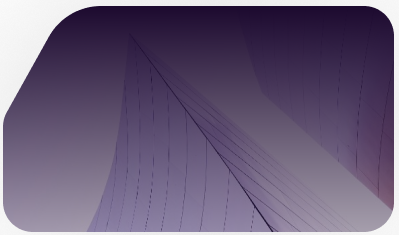
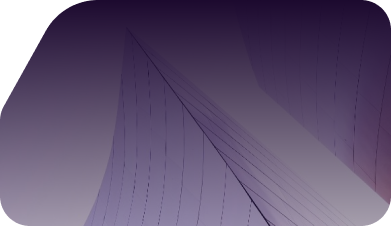
commit message

diff --git a/src/html/index.html b/src/html/index.html
@@ -138,6 +138,8 @@
                                     ما</a></li>
                         </ul>
                         <div class="hidden dropdown md:block absolute rounded-3xl bg-white shadow-2 p-3 z-40 top-[6px] inset-x-0 w-full">
+                            <!-- shape -->
+                            <img alt="bg" src="../img/Pattern (5).png" class="absolute left-0 top-0">
                             <!-- list1 -->
                             <div class="list1 grid grid-cols-3 py-2 text-center text-secondary font-extrabold font-rokh text-sm">
                                 <a data-id="1" class="cursor-pointer relative">
@@ -166,7 +168,10 @@
                                 </a>
                             </div>
                             <!-- list2 -->
-                            <div class="bg-purple list2 rounded-3xl p-6 mt-2 text-sm text-white font-light">
+                            <div class="bg-purple list2 relative overflow-hidden rounded-3xl p-6 mt-2 text-sm text-white font-light">
+                                <!-- shape -->
+                                <img alt="bg" src="../img/Pattern (5).png" class="absolute [transform:rotateY(180deg)] right-0 top-0">
+                                <!--  -->
                                 <ul data-id="1" class="relative grid grid-cols-3 gap-6">
                                     <!--  -->
                                     <li>
@@ -700,6 +705,8 @@
                     </div>
                 </div>
                 <div class="lg:col-span-5 col-span-12 relative order-first lg:order-last">
+                    <!-- shadow -->
+                    <div class="absolute shadow-8 h-2 w-6 inset-0 m-auto"></div>
                     <!-- bg -->
                     <img alt="img" src="../img/Rectangle 33.png"
                         class="absolute inset-0 w-full -top-[70px] h-[347px] -z-0">
@@ -1468,13 +1475,19 @@
             <img alt="shape" src="../img/Vector 69.png" class="absolute left-0 top-0 -z-0 hidden md:block">
             <!--  -->
             <div class="max-w-content mx-auto px-5 relative">
-                <div class="grid grid-cols-12 gap-y-12 lg:gap-y-0 items-end">
-                    <div class="lg:col-span-3 col-span-12">
+                <div class="grid grid-cols-12 gap-y-12 lg:gap-y-0 lg:gap-x-16 items-end relative">
+                    <!-- shadow -->
+                   <div class="absolute shadow-8 h-2 w-[87%] inset-0 m-auto -z-0"></div>
+                    <!-- bg -->
+                    <img alt="shape" src="../img/Rectangle 29 (3).png" class="absolute h-[247px]  top-9 w-[96%] left-6 -z-0 hidden md:block">
+                    <img alt="shape" src="../img/Rectangle 33 (2).png" class="absolute inset-0 h-[247px] shadow-9  top-14 -z-0 hidden md:block">
+                    <!--  -->
+                    <div class="lg:col-span-3 col-span-12 relative">
                         <div class="flex flex-row lg:flex-col items-center">
                             <img alt="img" src="../img/property-plan-7042582-5727713 1 (3).png"
                                 class="block w-32 order-last lg:order-first lg:w-auto lg:mx-auto lg:-mb-32 relative z-1">
                             <div
-                                class="lg:rounded-[30px] rounded-2xl order-first lg:order-last lg:w-full rounded-tl-[35px] lg:rounded-tl-[60px] shadow-2 relative overflow-hidden pt-8 lg:pt-32 pb-0 p-5 pr-12 lg:pr-16">
+                                class="lg:rounded-[30px] shadow-2 rounded-2xl order-first lg:order-last lg:w-[328px] text-center rounded-tl-[35px] lg:rounded-tl-[60px] relative overflow-hidden pt-8 lg:pt-32 pb-0 px-5">
                                 <!-- shape & bg -->
                                 <div class="lg:h-[108px] h-[76px] w-0.5 bg-[#b0a5bb] absolute z-1 bottom-0 right-7 lg:right-11">
                                     <div class="w-full h-16 bg-purple"></div>
@@ -1490,11 +1503,11 @@
                             </div>
                         </div>
                     </div>
-                    <div class="lg:col-span-9 col-span-12">
+                    <div class="lg:col-span-9 col-span-12 relative">
                         <div class="grid grid-cols-2 md:grid-cols-4 gap-6 lg:gap-0">
                             <div>
                                 <div
-                                    class="bg-white md:bg-gray2 shadow-2 pt-5 px-12 pb-10 w-[140px] h-[104px] mx-auto flex items-center justify-center rounded-3xl">
+                                    class="bg-white md:bg-gray2 pt-5 px-12 pb-10 w-[140px] h-[104px] mx-auto flex items-center justify-center rounded-3xl">
                                     <svg class="w-7 h-7 sm:w-11 sm:h-11" width="44" height="44" viewBox="0 0 44 44" fill="none"
                                         xmlns="http://www.w3.org/2000/svg">
                                         <g opacity="0.5">
@@ -1514,7 +1527,7 @@
                             </div>
                             <div>
                                 <div
-                                    class="bg-white md:bg-gray2 shadow-2 pt-5 px-12 pb-10 w-[140px] h-[104px] mx-auto flex items-center justify-center rounded-3xl">
+                                    class="bg-white md:bg-gray2 pt-5 px-12 pb-10 w-[140px] h-[104px] mx-auto flex items-center justify-center rounded-3xl">
                                     <svg class="w-7 h-7 sm:w-11 sm:h-11" width="45" height="44" viewBox="0 0 45 44" fill="none"
                                         xmlns="http://www.w3.org/2000/svg">
                                         <g opacity="0.5">
@@ -1534,7 +1547,7 @@
                             </div>
                             <div>
                                 <div
-                                    class="bg-white md:bg-gray2 shadow-2 pt-5 px-12 pb-10 w-[140px] h-[104px] mx-auto flex items-center justify-center rounded-3xl">
+                                    class="bg-white md:bg-gray2 pt-5 px-12 pb-10 w-[140px] h-[104px] mx-auto flex items-center justify-center rounded-3xl">
                                     <svg class="w-7 h-7 sm:w-11 sm:h-11" width="45" height="44" viewBox="0 0 45 44" fill="none"
                                         xmlns="http://www.w3.org/2000/svg">
                                         <g opacity="0.5">
@@ -1557,7 +1570,7 @@
                             </div>
                             <div>
                                 <div
-                                    class="bg-white md:bg-gray2 shadow-2 pt-5 px-12 pb-10 w-[140px] h-[104px] mx-auto flex items-center justify-center rounded-3xl">
+                                    class="bg-white md:bg-gray2 pt-5 px-12 pb-10 w-[140px] h-[104px] mx-auto flex items-center justify-center rounded-3xl">
                                     <svg class="w-7 h-7 sm:w-11 sm:h-11" width="44" height="44" viewBox="0 0 44 44" fill="none"
                                         xmlns="http://www.w3.org/2000/svg">
                                         <g opacity="0.5">
@@ -1592,13 +1605,18 @@
             <!-- shape -->
             <img alt="img" src="../img/Group (5).png" class="absolute left-0 -z-0 -top-20 hidden md:block">
             <!--  -->
-            <div class="max-w-content mx-auto px-5">
+            <div class="max-w-content mx-auto px-5 relative">
+                <!-- shadow -->
+                <div class="absolute shadow-8 h-2 w-[87%] inset-0 m-auto -z-0"></div>
+                <!-- bg -->
+                 <img alt="bg" src="../img/Rectangle 31.png" class="absolute inset-0 w-full">
+                <!--  -->
                 <div class="flex flex-col lg:flex-row gap-9 sm:gap-12 items-center z-1 relative">
                     <div>
                         <div>
                             <div class="flex">
                                 <div
-                                    class="rounded-[30px] h-28 overflow-hidden flex-shrink-0 w-[302px] rounded-tl-[60px] shadow-2 relative p-4 pr-16">
+                                    class="rounded-[30px] h-28 overflow-hidden flex-shrink-0 w-[302px] rounded-tl-[60px] relative p-4 pr-16">
                                     <!-- shape & bg -->
                                     <div class="h-[90px] w-0.5 bg-[#b0a5bb] absolute z-1 bottom-0 right-8">
                                         <div class="w-full h-10 bg-gold"></div>
@@ -1616,16 +1634,16 @@
                                     class="block w-[111px] -top-9 -mr-[69px] relative z-1">
                             </div>
                             <div class="mt-11 relative">
-                                <div class="mx-auto inset-x-0 w-[272px] sm:w-[328px] h-[264px] sm:h-[319px] bg-purple absolute top-0 rounded-[30px] -z-0 rotate-6">
+                                <div class="mx-auto inset-x-0 w-[272px] sm:w-[308px] h-[264px] sm:h-[319px] bg-purple absolute top-0 rounded-[30px] -z-0 rotate-6">
                                 </div>
                                 <img alt="img" src="../img/Rectangle 44.png"
-                                    class="rounded-[30px] mx-auto block w-[272px] sm:w-[328px] h-[264px] sm:h-[319px] relative">
+                                    class="rounded-[30px] mx-auto block w-[272px] sm:w-[308px] h-[264px] sm:h-[319px] relative">
                             </div>
                         </div>
                     </div>
                     <div>
                         <div
-                            class="rounded-[30px] bg-white relative overflow-hidden shadow-2 p-6 sm:p-11 opacity-70 leading-9">
+                            class="rounded-[30px] bg-white shadow-2 relative overflow-hidden p-6 sm:p-11 opacity-70 leading-9">
                             <!-- shape -->
                             <img alt="img" src="../img/Pattern (3).png" class="absolute top-0 left-0 -z-0">
                             <!--  -->
@@ -1652,8 +1670,11 @@
             <img alt="img" src="../img/Group (6).png" class="absolute md:hidden left-0 -top-[540px] -z-0">
             <!--  -->
             <div class="max-w-content mx-auto px-5 relative">
+                <!-- shadow -->
+                <div class="absolute shadow-8 h-2 w-[87%] inset-0 m-auto -z-0"></div>
                 <!-- shape -->
                 <div class="absolute flex justify-center -z-0 inset-x-0 -top-2 mx-auto">
+                    <img alt="img" src="../img/Rectangle 33 (3).png" class="w-52 sm:w-[338px] block -ml-[21rem]">
                     <img alt="img" src="../img/Rectangle 34 (2).png" class="w-52 sm:w-[338px] block">
                 </div>
                 <!--  -->
@@ -1966,7 +1987,7 @@
             <div class="grid grid-cols-12 gap-6 lg:gap-[52px] items-end">
                 <div class="lg:col-span-4 col-span-12">
                     <div class="flex items-center gap-6">
-                        <div class="relative shadow-2 w-56 lg:w-96">
+                        <div class="relative w-56 lg:w-96">
                             <img alt="img" src="../img/Rectangle 30 (3).png">
                             <img alt="logo" src="../img/Group 2405 (2).png" class="absolute inset-0 m-auto w-32 lg:w-auto">
                         </div>

diff --git a/dist/output.css b/dist/output.css
@@ -762,6 +762,10 @@ video {
   left: 1.25rem;
 }
 
+.left-6 {
+  left: 1.5rem;
+}
+
 .left-8 {
   left: 2rem;
 }
@@ -814,6 +818,10 @@ video {
   top: 3rem;
 }
 
+.top-14 {
+  top: 3.5rem;
+}
+
 .top-4 {
   top: 1rem;
 }
@@ -826,6 +834,10 @@ video {
   top: 1.5rem;
 }
 
+.top-8 {
+  top: 2rem;
+}
+
 .top-\[100px\] {
   top: 100px;
 }
@@ -836,6 +848,10 @@ video {
 
 .top-\[93px\] {
   top: 93px;
+}
+
+.top-9 {
+  top: 2.25rem;
 }
 
 .-z-0 {
@@ -1032,6 +1048,14 @@ video {
   margin-top: 74px;
 }
 
+.-ml-48 {
+  margin-left: -12rem;
+}
+
+.-ml-\[21rem\] {
+  margin-left: -21rem;
+}
+
 .block {
   display: block;
 }
@@ -1070,6 +1094,10 @@ video {
 
 .h-16 {
   height: 4rem;
+}
+
+.h-2 {
+  height: 0.5rem;
 }
 
 .h-20 {
@@ -1134,6 +1162,10 @@ video {
 
 .h-\[244px\] {
   height: 244px;
+}
+
+.h-\[247px\] {
+  height: 247px;
 }
 
 .h-\[264px\] {
@@ -1330,6 +1362,14 @@ video {
 
 .w-full {
   width: 100%;
+}
+
+.w-\[87\%\] {
+  width: 87%;
+}
+
+.w-\[96\%\] {
+  width: 96%;
 }
 
 .max-w-\[1536px\] {
@@ -2134,6 +2174,10 @@ video {
   transition-duration: 150ms;
 }
 
+.\[transform\:rotateY\(180deg\)\] {
+  transform: rotateY(180deg);
+}
+
 @font-face {
   font-family: yekanBakh-Regular;
 
@@ -2214,6 +2258,14 @@ header ul li.active::after{
 
 .shadow-7{
   box-shadow: -14px 11px 80px 0px #643394;
+}
+
+.shadow-8{
+  box-shadow: 0px 0px 348px 126px #00000026;
+}
+
+.shadow-9{
+  filter: drop-shadow(0px 0px 200px 0px #00000026);
 }
 
 .shadow-next{
@@ -2620,6 +2672,10 @@ input[type="number"] {
     width: auto;
   }
 
+  .sm\:w-\[308px\] {
+    width: 308px;
+  }
+
   .sm\:grid-cols-2 {
     grid-template-columns: repeat(2, minmax(0, 1fr));
   }
@@ -2965,6 +3021,10 @@ input[type="number"] {
     width: 24rem;
   }
 
+  .lg\:w-\[328px\] {
+    width: 328px;
+  }
+
   .lg\:w-auto {
     width: auto;
   }
@@ -3007,6 +3067,11 @@ input[type="number"] {
 
   .lg\:gap-\[52px\] {
     gap: 52px;
+  }
+
+  .lg\:gap-x-16 {
+    -moz-column-gap: 4rem;
+         column-gap: 4rem;
   }
 
   .lg\:gap-y-0 {
@@ -3075,10 +3140,6 @@ input[type="number"] {
 
   .lg\:pl-20 {
     padding-left: 5rem;
-  }
-
-  .lg\:pr-16 {
-    padding-right: 4rem;
   }
 
   .lg\:pr-20 {

diff --git a/src/css/app.css b/src/css/app.css
@@ -66,6 +66,12 @@ header ul li.active::after{
 .shadow-7{
   box-shadow: -14px 11px 80px 0px #643394;
 }
+.shadow-8{
+  box-shadow: 0px 0px 348px 126px #00000026;
+}
+.shadow-9{
+  filter: drop-shadow(0px 0px 200px 0px #00000026);
+}
 .shadow-next{
   box-shadow: -2px 0px 24px 0px #0000001A;
 }
